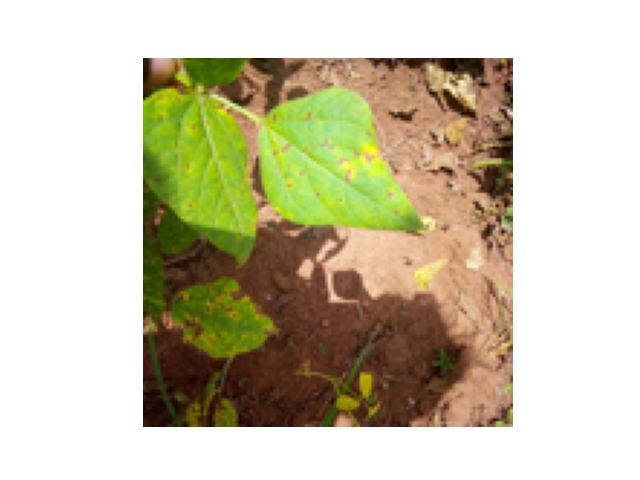
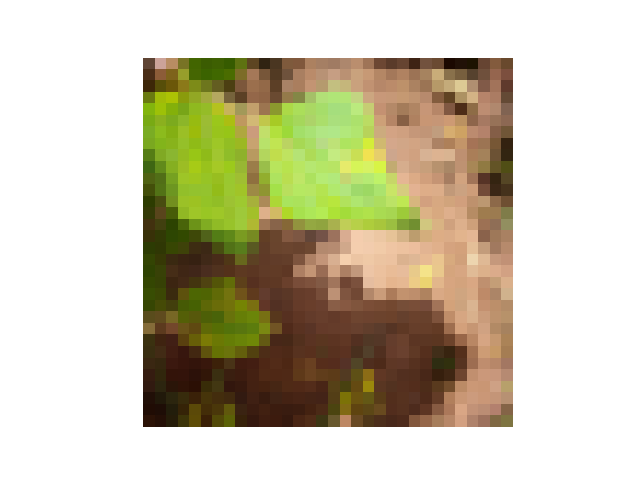
small shange in main

diff --git a/main.py b/main.py
@@ -36,10 +36,10 @@ def main():
         device = torch.device("cpu")
         print("GPU is not available, using CPU.")
 
-    resolution = 128
+    resolution = 32
 
     model = BVAEModel(device)
-    num_epochs = 5
+    num_epochs = 20
     learning_rate = 1e-3
 
     train_b_vae(model, dataset, num_epochs, learning_rate, resolution)
